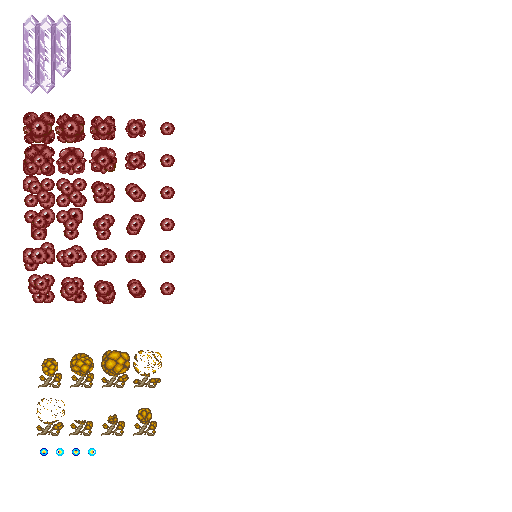
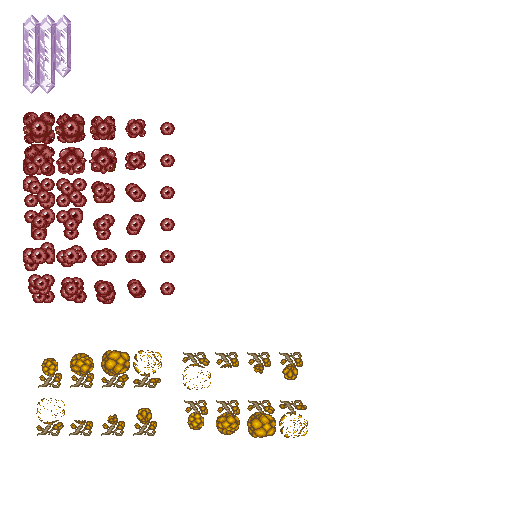
YellowBall2 implemented

Changed region(s): [[0.3438, 0.7812, 0.5938, 0.875], [0.3438, 0.6875, 0.5938, 0.75], [0.0625, 0.875, 0.1875, 0.9062]]

diff --git a/X-Multiply/ModuleCollision.cpp b/X-Multiply/ModuleCollision.cpp
@@ -19,7 +19,7 @@ ModuleCollision::ModuleCollision()
 	matrix[COLLIDER_WALL][COLLIDER_HUD] = false; 
 	matrix[COLLIDER_WALL][COLLIDER_BOMB] = true;
 	matrix[COLLIDER_WALL][COLLIDER_DIAMOND] = true;
-	matrix[COLLIDER_WALL][COLLIDER_REDBALL] = false;
+	
 
 	//COLLIDER_PLAYER CONDITIONS
 	matrix[COLLIDER_PLAYER][COLLIDER_WALL] = true;
@@ -31,7 +31,8 @@ ModuleCollision::ModuleCollision()
 	matrix[COLLIDER_PLAYER][COLLIDER_HUD] = true; 
 	matrix[COLLIDER_PLAYER][COLLIDER_BOMB] = false;
 	matrix[COLLIDER_PLAYER][COLLIDER_DIAMOND] = true;
-	matrix[COLLIDER_PLAYER][COLLIDER_REDBALL] = true;
+	matrix[COLLIDER_PLAYER][COLLIDER_NONE] = false;
+	
 
 
 	//COLLIDER_ENEMY CONDITIONS
@@ -44,7 +45,7 @@ ModuleCollision::ModuleCollision()
 	matrix[COLLIDER_ENEMY][COLLIDER_HUD] = false; 
 	matrix[COLLIDER_ENEMY][COLLIDER_BOMB] = true;
 	matrix[COLLIDER_ENEMY][COLLIDER_DIAMOND] = false;
-	matrix[COLLIDER_ENEMY][COLLIDER_REDBALL] = false;
+
 	matrix[COLLIDER_ENEMY][COLLIDER_NONE] = false;
 
 	//COLLIDER_PLAYER_SHOT CONDITIONS
@@ -57,10 +58,10 @@ ModuleCollision::ModuleCollision()
 	matrix[COLLIDER_PLAYER_SHOT][COLLIDER_HUD] = true; 
 	matrix[COLLIDER_PLAYER_SHOT][COLLIDER_BOMB] = false;
 	matrix[COLLIDER_PLAYER_SHOT][COLLIDER_DIAMOND] = true;
-	matrix[COLLIDER_PLAYER_SHOT][COLLIDER_REDBALL] = true;
+	
 
 	//ENEMY_SHOT COLLIDER CONDITIONS
-	matrix[COLLIDER_ENEMY_SHOT][COLLIDER_WALL] = false;
+	matrix[COLLIDER_ENEMY_SHOT][COLLIDER_WALL] = true;
 	matrix[COLLIDER_ENEMY_SHOT][COLLIDER_PLAYER] = true;
 	matrix[COLLIDER_ENEMY_SHOT][COLLIDER_ENEMY] = false;
 	matrix[COLLIDER_ENEMY_SHOT][COLLIDER_PLAYER_SHOT] = false;
@@ -69,7 +70,7 @@ ModuleCollision::ModuleCollision()
 	matrix[COLLIDER_ENEMY_SHOT][COLLIDER_HUD] = true; 
 	matrix[COLLIDER_ENEMY_SHOT][COLLIDER_BOMB] = false;
 	matrix[COLLIDER_ENEMY_SHOT][COLLIDER_DIAMOND] = false;
-	matrix[COLLIDER_ENEMY_SHOT][COLLIDER_REDBALL] = false;
+
 
 	//COLLIDER_POWERUP CONDITIONS
 	matrix[COLLIDER_POWERUP][COLLIDER_PLAYER_SHOT] = false;
@@ -81,7 +82,7 @@ ModuleCollision::ModuleCollision()
 	matrix[COLLIDER_POWERUP][COLLIDER_HUD] = false; 
 	matrix[COLLIDER_POWERUP][COLLIDER_BOMB] = false;
 	matrix[COLLIDER_POWERUP][COLLIDER_DIAMOND] = false;
-	matrix[COLLIDER_POWERUP][COLLIDER_REDBALL] = false;
+
 
 	//COLLIDER_HUD CONDITIONS 
 	matrix[COLLIDER_HUD][COLLIDER_PLAYER_SHOT] = false; 
@@ -93,7 +94,7 @@ ModuleCollision::ModuleCollision()
 	matrix[COLLIDER_HUD][COLLIDER_HUD] = false; 
 	matrix[COLLIDER_HUD][COLLIDER_BOMB] = false;
 	matrix[COLLIDER_HUD][COLLIDER_DIAMOND] = false;
-	matrix[COLLIDER_HUD][COLLIDER_REDBALL] = false;
+	
 
 	//COLLIDER_HUD CONDITIONS 
 	matrix[COLLIDER_BOMB][COLLIDER_PLAYER_SHOT] = false;
@@ -104,32 +105,22 @@ ModuleCollision::ModuleCollision()
 	matrix[COLLIDER_BOMB][COLLIDER_POWERUP] = false;
 	matrix[COLLIDER_BOMB][COLLIDER_HUD] = true;
 	matrix[COLLIDER_BOMB][COLLIDER_DIAMOND] = true;
-	matrix[COLLIDER_BOMB][COLLIDER_REDBALL] = true;
+
 
 	//COLLIDER_DIAMOND CONDITIONS 
 	matrix[COLLIDER_DIAMOND][COLLIDER_PLAYER_SHOT] = false;
 	matrix[COLLIDER_DIAMOND][COLLIDER_ENEMY_SHOT] = false;
 	matrix[COLLIDER_DIAMOND][COLLIDER_WALL] = true;
-	matrix[COLLIDER_DIAMOND][COLLIDER_ENEMY] = false;
+	matrix[COLLIDER_DIAMOND][COLLIDER_ENEMY] = true;
 	matrix[COLLIDER_DIAMOND][COLLIDER_PLAYER] = true;
 	matrix[COLLIDER_DIAMOND][COLLIDER_POWERUP] = false;
 	matrix[COLLIDER_DIAMOND][COLLIDER_HUD] = false;
 	matrix[COLLIDER_DIAMOND][COLLIDER_BOMB] = true;
 	matrix[COLLIDER_DIAMOND][COLLIDER_DIAMOND] = false;
-	matrix[COLLIDER_DIAMOND][COLLIDER_REDBALL] = true;
+	
 	matrix[COLLIDER_DIAMOND][COLLIDER_NONE] = true;
 
-	//COLLIDER_REDBALL CONDITIONS
-	matrix[COLLIDER_REDBALL][COLLIDER_PLAYER_SHOT] = true;
-	matrix[COLLIDER_REDBALL][COLLIDER_ENEMY_SHOT] = false;
-	matrix[COLLIDER_REDBALL][COLLIDER_WALL] = false;
-	matrix[COLLIDER_REDBALL][COLLIDER_ENEMY] = false;
-	matrix[COLLIDER_REDBALL][COLLIDER_PLAYER] = true;
-	matrix[COLLIDER_REDBALL][COLLIDER_POWERUP] = false;
-	matrix[COLLIDER_REDBALL][COLLIDER_HUD] = false;
-	matrix[COLLIDER_REDBALL][COLLIDER_BOMB] = true;
-	matrix[COLLIDER_REDBALL][COLLIDER_DIAMOND] = false;
-	matrix[COLLIDER_REDBALL][COLLIDER_REDBALL] = false; 
+	
 }
 
 // Destructor
@@ -238,9 +229,7 @@ void ModuleCollision::DebugDraw()
 			case COLLIDER_DIAMOND: //grey
 			App->render->DrawQuad(colliders[i]->rect, 128, 128, 128, alpha);
 			break;
-			case COLLIDER_REDBALL: //red
-			App->render->DrawQuad(colliders[i]->rect, 255, 0, 0, alpha);
-			break; 
+			
 		}
 	}
 }

diff --git a/X-Multiply/Enemy_YellowBall2.cpp b/X-Multiply/Enemy_YellowBall2.cpp
@@ -1,0 +1,52 @@
+#include "Application.h"
+#include "Enemy_YellowBall2.h"
+#include "ModuleCollision.h"
+#include "ModuleRender.h"
+#include "ModuleParticles.h"
+#include "SDL/include/SDL_timer.h"
+
+Enemy_YellowBall2::Enemy_YellowBall2(int x, int y) : Enemy(x, y)
+{
+	life = 1;
+
+	inflate.PushBack({ 184, 400, 24, 30 });
+	inflate.PushBack({ 214, 400, 25, 35 });
+	inflate.PushBack({ 246, 400, 30, 38 });
+	inflate.PushBack({ 279, 400, 29, 38 });
+	inflate.PushBack({ 183, 352, 29, 38 });
+
+	inflate.PushBack({ 215, 352, 24, 16 });
+	inflate.PushBack({ 215, 352, 24, 16 });
+	inflate.PushBack({ 215, 352, 24, 16 });
+	inflate.PushBack({ 215, 352, 24, 16 });
+	inflate.PushBack({ 215, 352, 24, 16 });
+	
+
+	inflate.PushBack({ 246, 352, 24, 23 });
+	inflate.PushBack({ 278, 352, 24, 28 });
+
+
+	inflate.speed = 0.1f;
+	animation = &inflate;
+
+	collider = App->collision->AddCollider({ 0, 0, 29, 38 }, COLLIDER_TYPE::COLLIDER_ENEMY, (Module*)App->enemies);
+
+	original_position.x = x;
+	original_position.y = y;
+}
+
+void Enemy_YellowBall2::Move()
+{
+	if (App->render->camera.x % 136 == 0)
+	{
+		App->particles->AddParticle(App->particles->anemona_shotud1, original_position.x + 14, original_position.y + 15, COLLIDER_ENEMY_SHOT);
+		App->particles->AddParticle(App->particles->anemona_shotud2, original_position.x + 14, original_position.y + 5, COLLIDER_ENEMY_SHOT);
+		App->particles->AddParticle(App->particles->anemona_shotud3, original_position.x + 14, original_position.y , COLLIDER_ENEMY_SHOT);
+		
+	}
+}
+void Enemy_YellowBall2::OnCollision(Collider* collider)
+{
+	App->particles->AddParticle(App->particles->explosion_enemy, position.x, position.y);
+}
+

diff --git a/X-Multiply/ModuleEnemies.cpp b/X-Multiply/ModuleEnemies.cpp
@@ -16,6 +16,7 @@
 #include "Enemy_Red_Ball5.h"
 
 #include "Enemy_YellowBall.h"
+#include "Enemy_YellowBall2.h"
 #include "Diamond_Wall.h"
 
 #define SPAWN_MARGIN 50
@@ -49,11 +50,23 @@ update_status ModuleEnemies::PreUpdate()
 	{
 		if (queue[i].type != ENEMY_TYPES::NO_TYPE)
 		{
-			if (queue[i].x * SCREEN_SIZE < App->render->camera.x + (App->render->camera.w * SCREEN_SIZE) + SPAWN_MARGIN)
+			if (queue[i].type == ENEMY_TYPES::REDBALL || queue[i].type == ENEMY_TYPES::REDBALL1 || queue[i].type == ENEMY_TYPES::REDBALL2 || queue[i].type == ENEMY_TYPES::REDBALL3 || queue[i].type == ENEMY_TYPES::REDBALL4 || queue[i].type == ENEMY_TYPES::REDBALL5)
 			{
-				SpawnEnemy(queue[i]);
-				queue[i].type = ENEMY_TYPES::NO_TYPE;
+				if (queue[i].x * SCREEN_SIZE < App->render->camera.x + (App->render->camera.w * SCREEN_SIZE) )
+				{
+					SpawnEnemy(queue[i]);
+					queue[i].type = ENEMY_TYPES::NO_TYPE;
+				}
 			}
+			else
+			{
+				if (queue[i].x * SCREEN_SIZE < App->render->camera.x + (App->render->camera.w * SCREEN_SIZE) + SPAWN_MARGIN)
+				{
+					SpawnEnemy(queue[i]);
+					queue[i].type = ENEMY_TYPES::NO_TYPE;
+				}
+			}
+			
 		}
 	}
 
@@ -160,6 +173,9 @@ void ModuleEnemies::SpawnEnemy(const EnemyInfo& info)
 			break;
 		case ENEMY_TYPES::YELLOWBALL:
 			enemies[i] = new Enemy_YellowBall(info.x, info.y);
+			break;
+		case ENEMY_TYPES::YELLOWBALL2:
+			enemies[i] = new Enemy_YellowBall2(info.x, info.y);
 			break;
 		case ENEMY_TYPES::DIAMOND_WALL:
 			enemies[i] = new Diamond_Wall(info.x, info.y);

diff --git a/X-Multiply/Enemy_Red_Ball2.cpp b/X-Multiply/Enemy_Red_Ball2.cpp
@@ -15,7 +15,7 @@ Enemy_Red_Ball2::Enemy_Red_Ball2(int x, int y) : Enemy(x, y)
 
 	
 
-	collider = App->collision->AddCollider({ 0, 0, 32, 32 }, COLLIDER_TYPE::COLLIDER_REDBALL, (Module*)App->enemies);
+	collider = App->collision->AddCollider({ 0, 0, 32, 32 }, COLLIDER_TYPE::COLLIDER_ENEMY, (Module*)App->enemies);
 
 	one.PushBack({ 24, 177, 32, 32 });
 
@@ -32,8 +32,8 @@ void Enemy_Red_Ball2::OnCollision(Collider* collider_)
 		two.PushBack({ 56, 178, 31, 29 });
 		two.speed = 0.0f;
 
-		position.x += 1;
-		position.y += 1;
+		/*position.x += 1;
+		position.y += 1;*/
 
 		collider->rect.h = 29;
 		collider->rect.w = 31;
@@ -45,8 +45,8 @@ void Enemy_Red_Ball2::OnCollision(Collider* collider_)
 		three.PushBack({ 91, 181, 24, 22 });
 		three.speed = 0.0f;
 
-		position.x += 3;
-		position.y += 4;
+		/*position.x += 3;
+		position.y += 4;*/
 
 		collider->rect.h = 22;
 		collider->rect.w = 24;
@@ -57,8 +57,8 @@ void Enemy_Red_Ball2::OnCollision(Collider* collider_)
 		four.PushBack({ 125, 183, 21, 19 });
 		four.speed = 0.0f;
 
-		position.x += 3;
-		position.y += 3;
+		/*position.x += 3;
+		position.y += 3;*/
 
 		collider->rect.h = 19;
 		collider->rect.w = 21;
@@ -69,8 +69,8 @@ void Enemy_Red_Ball2::OnCollision(Collider* collider_)
 		five.PushBack({ 160, 123, 15, 13 });
 		five.speed = 0.0f;
 
-		position.x += 3;
-		position.y += 3;
+		/*position.x += 3;
+		position.y += 3;*/
 
 		collider->rect.h = 13;
 		collider->rect.w = 15;

diff --git a/X-Multiply/ModuleLevel5.cpp b/X-Multiply/ModuleLevel5.cpp
@@ -136,9 +136,12 @@ bool ModuleLevel5::Start()
 	App->enemies->AddEnemy(ENEMY_TYPES::DIAMOND_WALL, 700, 90);
 	App->enemies->AddEnemy(ENEMY_TYPES::DIAMOND_WALL, 1094, 80);
 	App->enemies->AddEnemy(ENEMY_TYPES::DIAMOND_WALL, 1630, 18);
+
 	
 	//GOOD POSITION
-	App->enemies->AddEnemy(ENEMY_TYPES::YELLOWBALL, 320, 200);
+	App->enemies->AddEnemy(ENEMY_TYPES::YELLOWBALL, 320, 202);
+
+	App->enemies->AddEnemy(ENEMY_TYPES::YELLOWBALL2, 450, 30);
 
 	App->enemies->AddEnemy(ENEMY_TYPES::REDBALL2, 250, 68);
 	App->enemies->AddEnemy(ENEMY_TYPES::REDBALL, 235, 85);
@@ -148,6 +151,8 @@ bool ModuleLevel5::Start()
 	App->enemies->AddEnemy(ENEMY_TYPES::REDBALL4, 300, 130);
 	App->enemies->AddEnemy(ENEMY_TYPES::REDBALL4, 273, 198);
 	App->enemies->AddEnemy(ENEMY_TYPES::REDBALL1, 337, 179 );
+
+	App->enemies->AddEnemy(ENEMY_TYPES::REDBALL2, 690, 120);
 	
 
 	//HUD hitbox

diff --git a/X-Multiply/Diamond_Wall.cpp b/X-Multiply/Diamond_Wall.cpp
@@ -26,7 +26,7 @@ void Diamond_Wall::Move()
 
 	if (touching == false)
 	{
-		position.y += 1;
+		position.y += 2;
 	}
 
 }
@@ -34,11 +34,11 @@ void Diamond_Wall::Move()
 
 void Diamond_Wall::OnCollision(Collider* collider)
 {
-	if (collider->type == COLLIDER_WALL || collider->type == COLLIDER_REDBALL)
+	if (collider->type == COLLIDER_WALL || collider->type == COLLIDER_ENEMY)
 	{
 		touching = true;
 	}
-	else if (collider->type != COLLIDER_REDBALL && collider->type == COLLIDER_NONE)
+	else if (collider->type != COLLIDER_ENEMY && collider->type == COLLIDER_NONE)
 	{
 		touching = false;
 	}

diff --git a/X-Multiply/Enemy_YellowBall2.h b/X-Multiply/Enemy_YellowBall2.h
@@ -1,0 +1,24 @@
+#ifndef __ENEMY_YELLOWBALL2_H__
+#define __ENEMY_YELLOWBALL2_H__
+
+#include "Enemy.h"
+
+class Enemy_YellowBall2 : public Enemy
+{
+private:
+	int original_y = 0;
+	Animation inflate;
+
+
+public:
+
+	iPoint original_position;
+	Enemy_YellowBall2(int x, int y);
+
+	void Move();
+	void Enemy_YellowBall2::OnCollision(Collider* collider);
+
+
+};
+
+#endif // #define __ENEMY_YELLOWBALL2_H__

diff --git a/X-Multiply/Enemy_Red_Ball1.cpp b/X-Multiply/Enemy_Red_Ball1.cpp
@@ -15,7 +15,7 @@ Enemy_Red_Ball1::Enemy_Red_Ball1(int x, int y) : Enemy(x, y)
 
 	original_position.y = y;
 
-	collider = App->collision->AddCollider({ 0, 0, 32, 32 }, COLLIDER_TYPE::COLLIDER_REDBALL, (Module*)App->enemies);
+	collider = App->collision->AddCollider({ 0, 0, 32, 32 }, COLLIDER_TYPE::COLLIDER_ENEMY, (Module*)App->enemies);
 
 	one.PushBack({ 23, 144, 32, 32 });
 

diff --git a/X-Multiply/Enemy_Red_Ball3.cpp b/X-Multiply/Enemy_Red_Ball3.cpp
@@ -15,7 +15,7 @@ Enemy_Red_Ball3::Enemy_Red_Ball3(int x, int y) : Enemy(x, y)
 
 	original_position.y = y;
 
-	collider = App->collision->AddCollider({ 0, 0, 31, 32 }, COLLIDER_TYPE::COLLIDER_REDBALL, (Module*)App->enemies);
+	collider = App->collision->AddCollider({ 0, 0, 31, 32 }, COLLIDER_TYPE::COLLIDER_ENEMY, (Module*)App->enemies);
 
 	one.PushBack({ 24, 208, 31, 32 });
 

diff --git a/X-Multiply/Enemy_Red_Ball4.cpp b/X-Multiply/Enemy_Red_Ball4.cpp
@@ -15,7 +15,7 @@ Enemy_Red_Ball4::Enemy_Red_Ball4(int x, int y) : Enemy(x, y)
 
 	original_position.y = y;
 
-	collider = App->collision->AddCollider({ 0, 0, 32, 29 }, COLLIDER_TYPE::COLLIDER_REDBALL, (Module*)App->enemies);
+	collider = App->collision->AddCollider({ 0, 0, 32, 29 }, COLLIDER_TYPE::COLLIDER_ENEMY, (Module*)App->enemies);
 
 	one.PushBack({ 23, 242, 32, 29 });
 

diff --git a/X-Multiply/Enemy_Red_Ball5.cpp b/X-Multiply/Enemy_Red_Ball5.cpp
@@ -15,7 +15,7 @@ Enemy_Red_Ball5::Enemy_Red_Ball5(int x, int y) : Enemy(x, y)
 
 	original_position.y = y;
 
-	collider = App->collision->AddCollider({ 0, 0, 27, 29 }, COLLIDER_TYPE::COLLIDER_REDBALL, (Module*)App->enemies);
+	collider = App->collision->AddCollider({ 0, 0, 27, 29 }, COLLIDER_TYPE::COLLIDER_ENEMY, (Module*)App->enemies);
 
 	one.PushBack({ 28, 274, 27, 29 });
 

diff --git a/X-Multiply/Enemy_Red_Ball.cpp b/X-Multiply/Enemy_Red_Ball.cpp
@@ -15,7 +15,7 @@ Enemy_Red_Ball::Enemy_Red_Ball(int x, int y) : Enemy(x, y)
 
 	original_position.y = y;
 
-	collider = App->collision->AddCollider({ 0, 0, 32, 32 }, COLLIDER_TYPE::COLLIDER_REDBALL, (Module*)App->enemies);
+	collider = App->collision->AddCollider({ 0, 0, 32, 32 }, COLLIDER_TYPE::COLLIDER_ENEMY, (Module*)App->enemies);
 
 	one.PushBack({ 23, 112, 32, 32 });
 	
